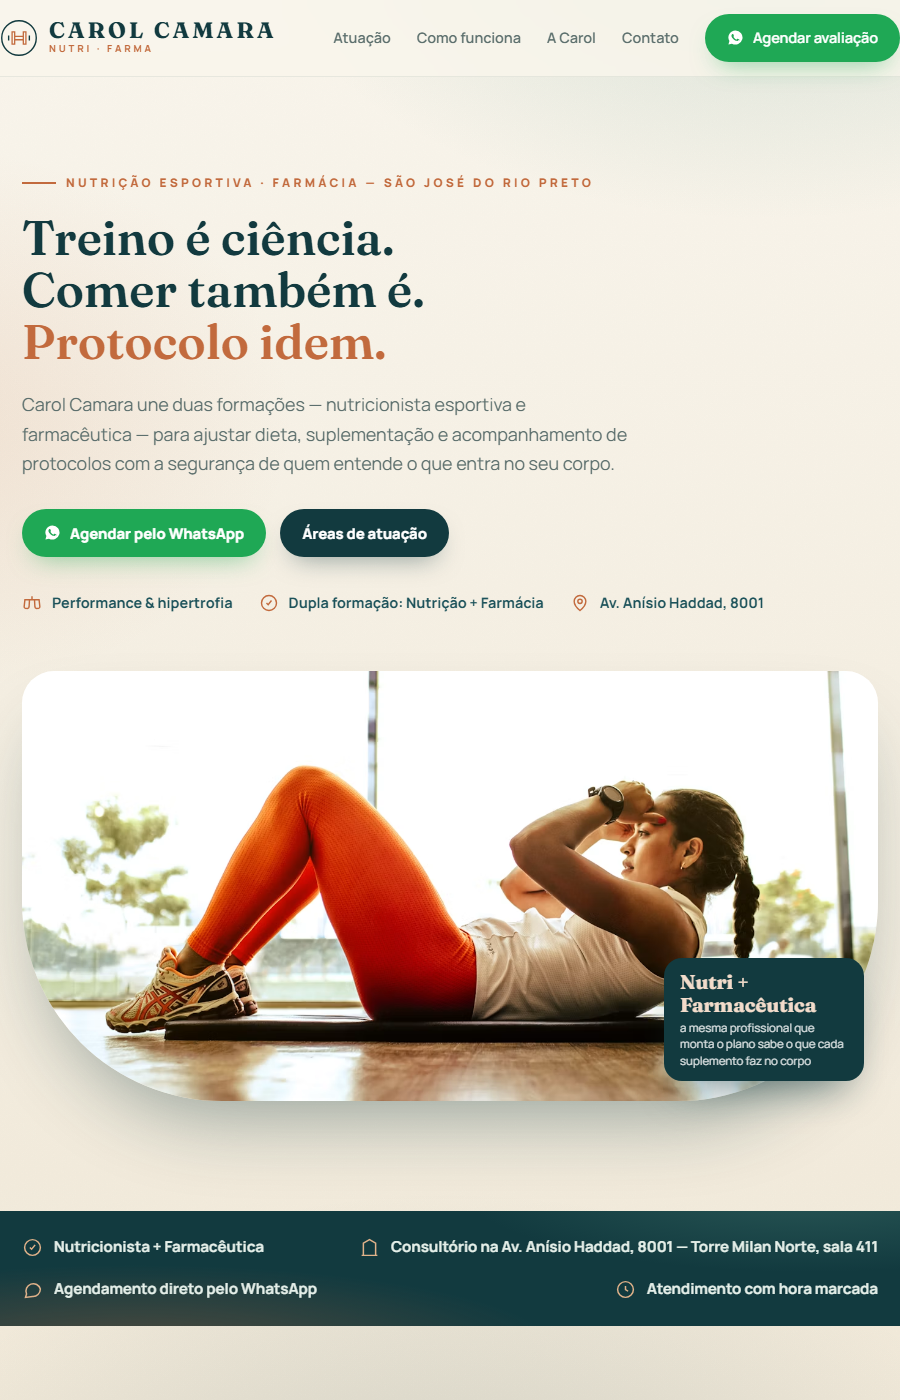
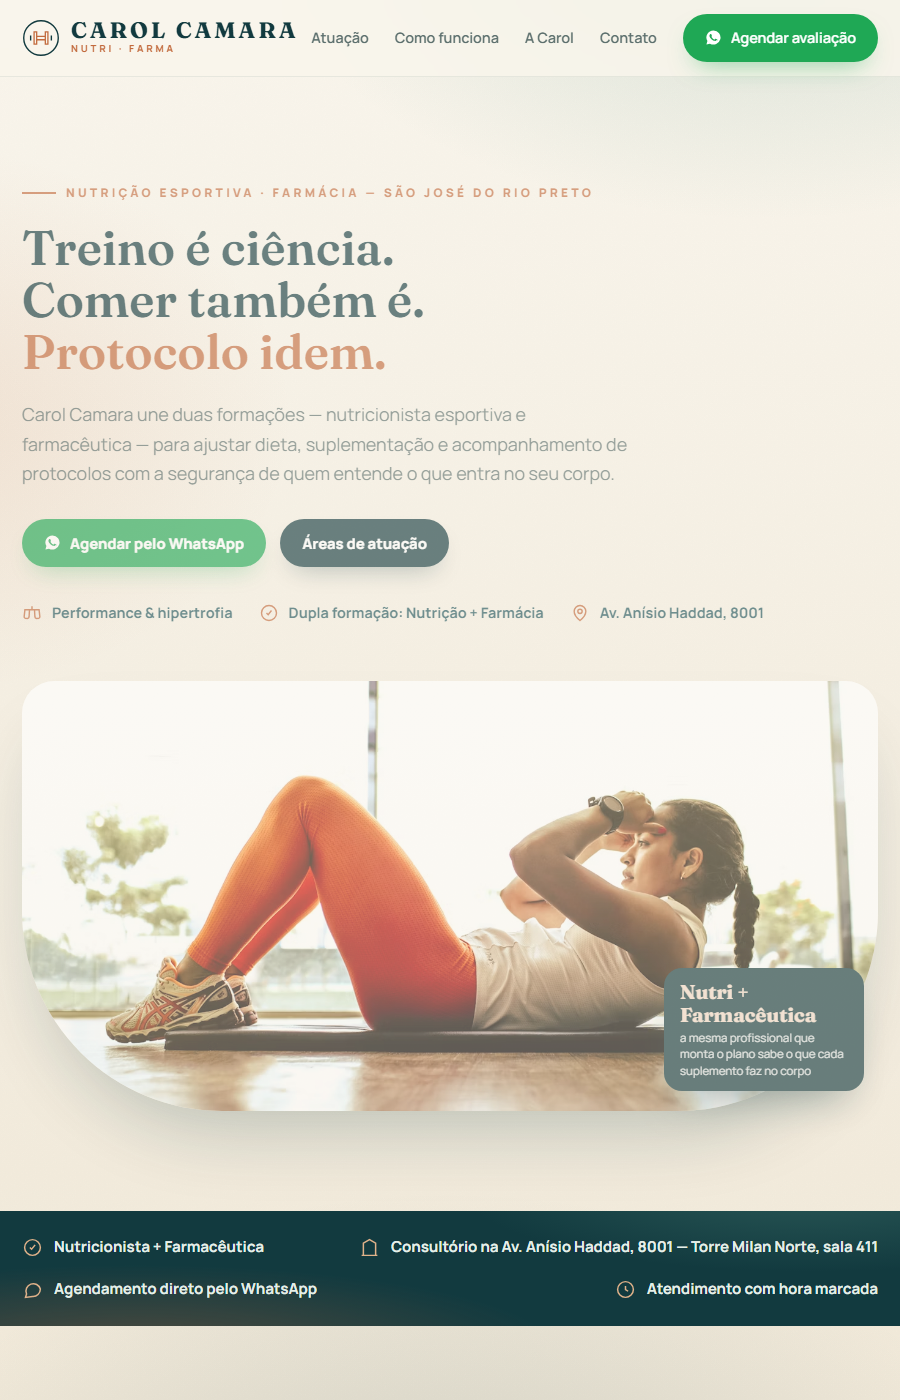
protos: publica renata-meneguette,carol-camara (gate R5: 9/10 9/10 )

Changed region(s): [[0.0, 0.1229, 0.9644, 0.7986], [0.0, 0.0, 1.0, 0.0614], [0.2489, 0.8907, 0.28, 0.9214]]

diff --git a/p/renata-meneguette/index.html b/p/renata-meneguette/index.html
@@ -50,7 +50,7 @@ a{color:inherit}
 /* ---------- header ---------- */
 header{position:sticky;top:0;z-index:50;transition:.35s;background:rgba(251,246,242,.82);backdrop-filter:blur(12px);border-bottom:1px solid rgba(74,30,48,.08)}
 header.scrolled{box-shadow:0 10px 30px -18px rgba(74,30,48,.35);background:rgba(251,246,242,.95)}
-.nav{display:flex;align-items:center;justify-content:space-between;padding:14px 0}
+.nav{display:flex;align-items:center;justify-content:space-between;padding:14px 22px}
 .logo{display:flex;align-items:center;gap:11px;text-decoration:none}
 .logo svg{width:38px;height:38px}
 .logo b{font-family:'Cormorant Garamond',serif;font-size:1.42rem;color:var(--vinho);line-height:1}
@@ -62,7 +62,7 @@ header.scrolled{box-shadow:0 10px 30px -18px rgba(74,30,48,.35);background:rgba(
 .btn:hover{transform:translateY(-2px);box-shadow:0 18px 32px -12px rgba(31,168,85,.65)}
 .btn svg{width:17px;height:17px;fill:currentColor}
 .btn-vinho{background:var(--vinho);box-shadow:0 12px 26px -12px rgba(74,30,48,.5)}
-@media(max-width:820px){.nav-links a:not(.btn){display:none}}
+@media(max-width:820px){.nav-links a:not(.btn){display:none}.nav .btn{white-space:nowrap;font-size:.82rem;padding:10px 16px}.logo b{font-size:1.02rem}.logo span{letter-spacing:.22em;font-size:.55rem}.logo svg{width:30px;height:30px}}
 
 /* ---------- hero ---------- */
 .hero{position:relative;padding:88px 0 110px}

diff --git a/p/carol-camara/index.html b/p/carol-camara/index.html
@@ -50,7 +50,7 @@ a{color:inherit}
 /* ---------- header ---------- */
 header{position:sticky;top:0;z-index:50;transition:.35s;background:rgba(249,245,236,.82);backdrop-filter:blur(12px);border-bottom:1px solid rgba(18,58,63,.08)}
 header.scrolled{box-shadow:0 10px 30px -18px rgba(18,58,63,.35);background:rgba(249,245,236,.95)}
-.nav{display:flex;align-items:center;justify-content:space-between;padding:14px 0}
+.nav{display:flex;align-items:center;justify-content:space-between;padding:14px 22px}
 .logo{display:flex;align-items:center;gap:11px;text-decoration:none}
 .logo svg{width:38px;height:38px}
 .logo b{font-family:'Fraunces',serif;font-size:1.4rem;color:var(--petroleo);line-height:1}
@@ -62,7 +62,7 @@ header.scrolled{box-shadow:0 10px 30px -18px rgba(18,58,63,.35);background:rgba(
 .btn:hover{transform:translateY(-2px);box-shadow:0 18px 32px -12px rgba(31,168,85,.65)}
 .btn svg{width:17px;height:17px;fill:currentColor}
 .btn-petro{background:var(--petroleo);box-shadow:0 12px 26px -12px rgba(18,58,63,.5)}
-@media(max-width:820px){.nav-links a:not(.btn){display:none}}
+@media(max-width:820px){.nav-links a:not(.btn){display:none}.nav .btn{white-space:nowrap;font-size:.82rem;padding:10px 16px}.logo b{font-size:1.02rem}.logo span{letter-spacing:.22em;font-size:.55rem}.logo svg{width:30px;height:30px}}
 
 /* ---------- hero ---------- */
 .hero{position:relative;padding:88px 0 110px}
